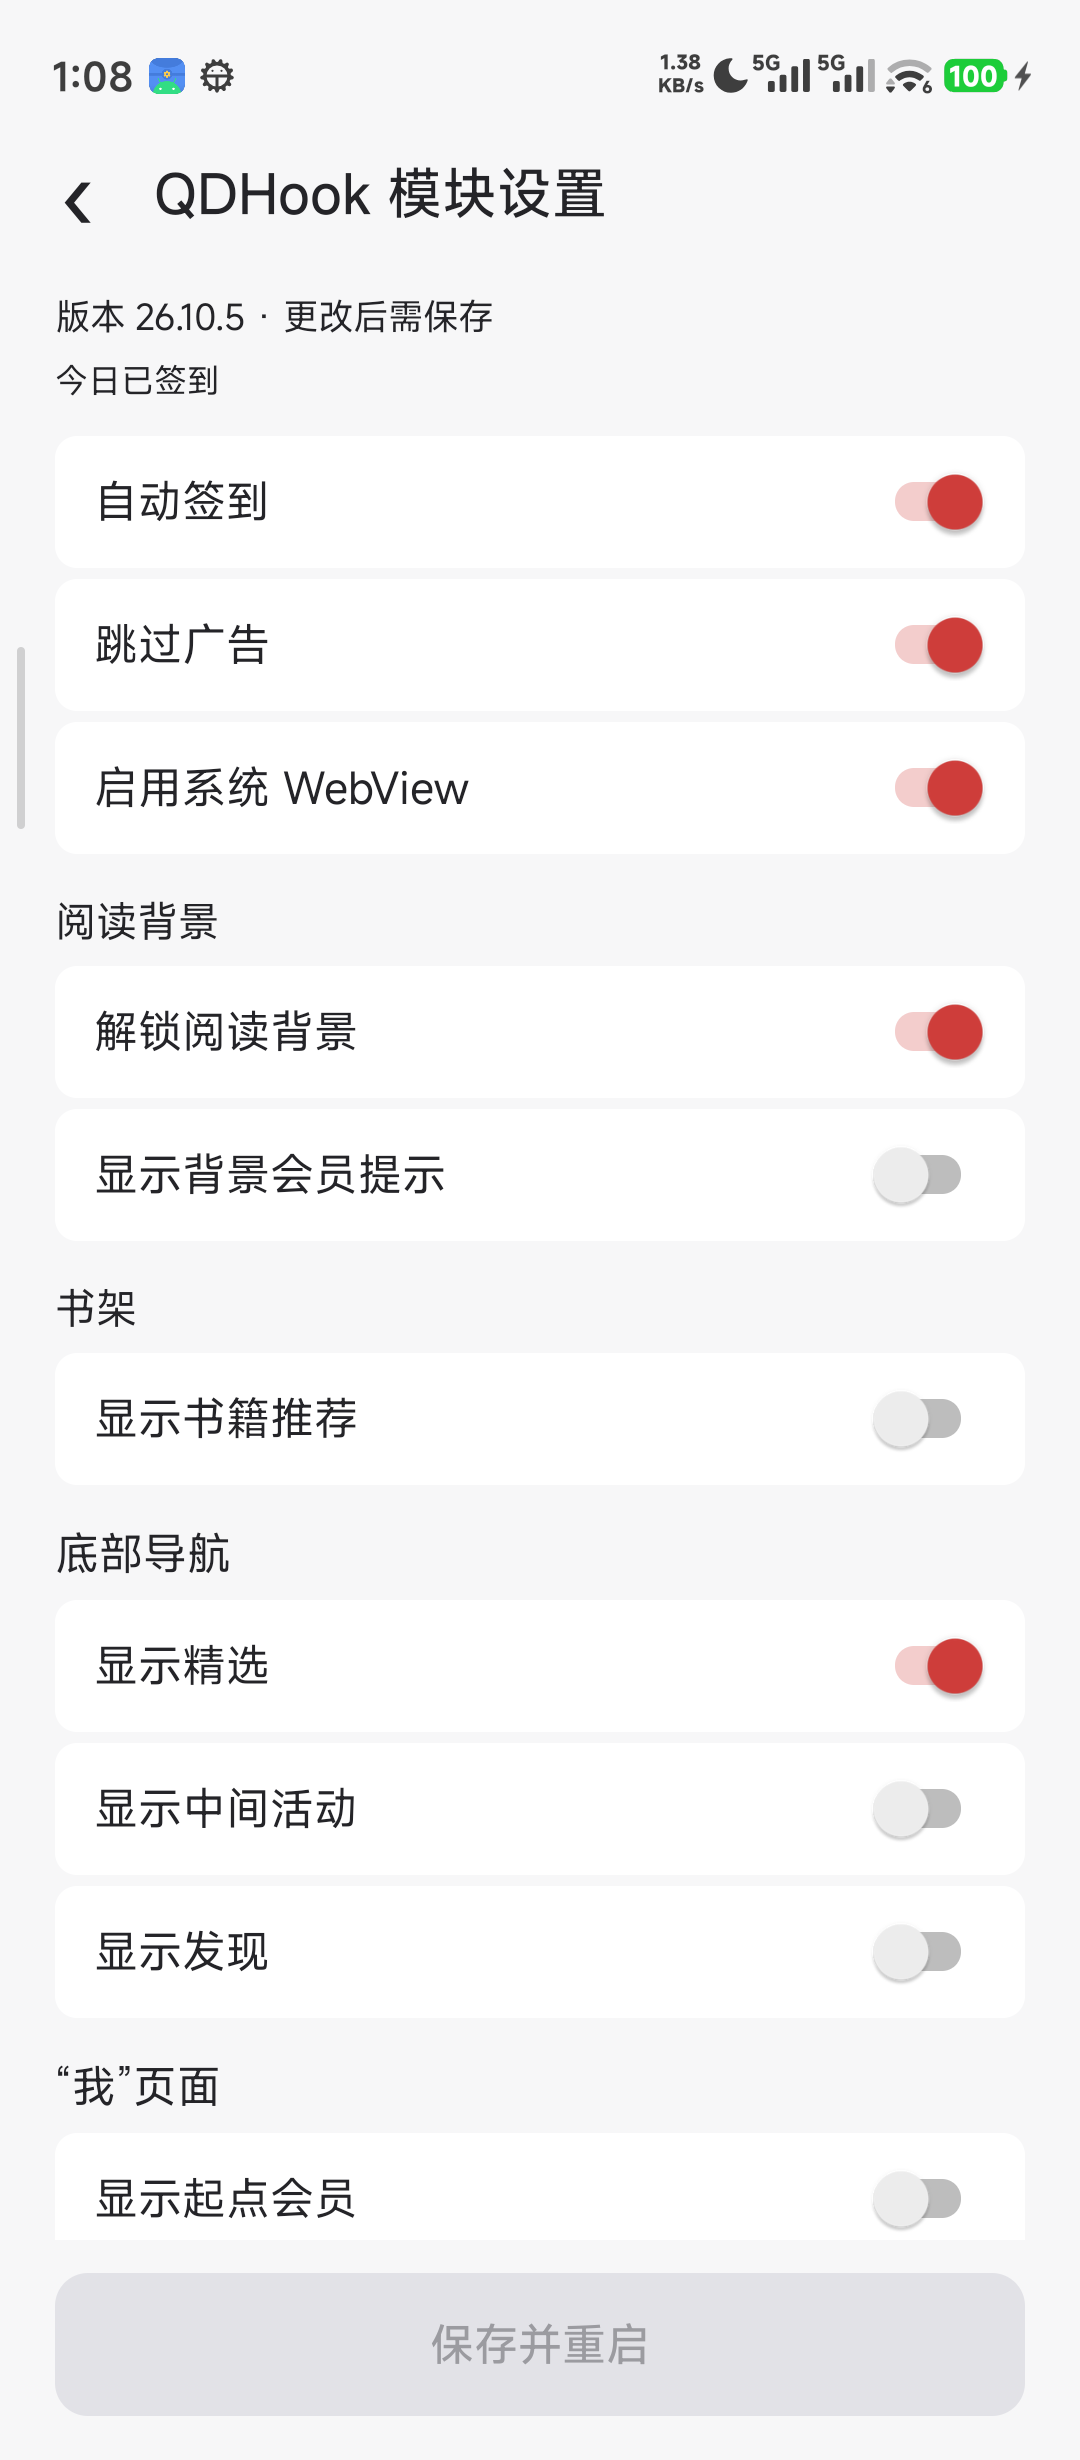
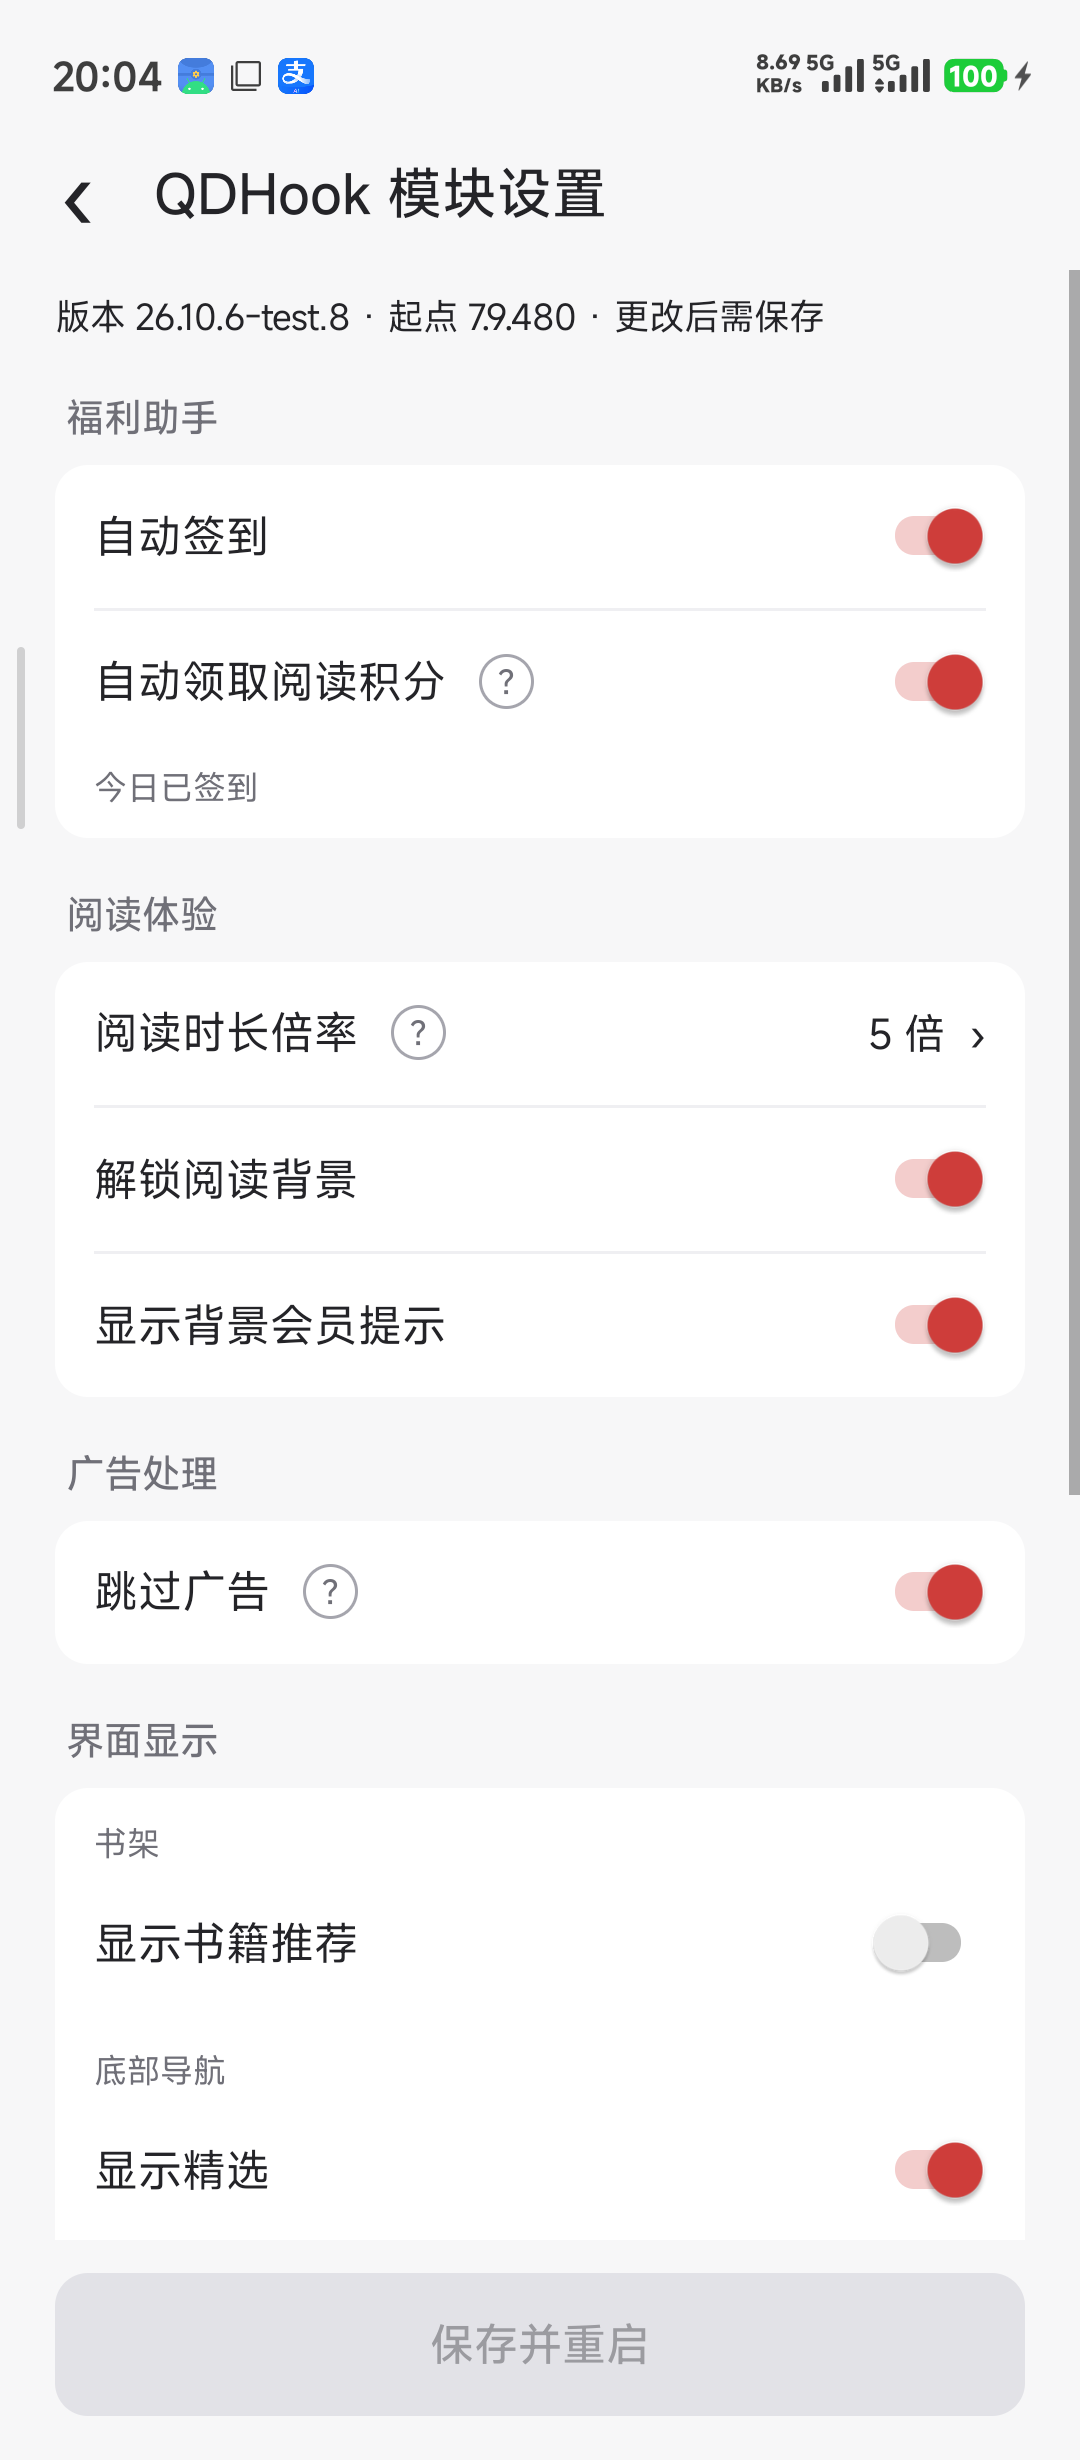
更新 README.md，完善功能描述及兼容性说明；替换功能截图

diff --git a/README.md b/README.md
@@ -4,7 +4,8 @@
 ![LibXposed API](https://img.shields.io/badge/LibXposed_API-102-blue)
 
 
-基于 **LibXposed API 102**，提供自动签到、广告相关、切换系统 WebView 和底部导航自定义功能
+基于 **LibXposed API 102**，提供自动签到、自动领取阅读积分、自定义阅读时长倍率、激励视频跳过、阅读背景、系统 WebView 和界面显示设置。
+
 
 **模块包名：`tech.soyoren.qdhook`**
 
@@ -18,7 +19,8 @@
 ## 兼容说明
 
 - 需要支持 **LibXposed API 102** 的 LSPosed 环境。
-- 适配目标为原包名 **`com.qidian.QDReader`** 的起点读书 **7.9.478**，修改包名的共存版本暂未适配。
+- 支持原包名 **`com.qidian.QDReader`** 的起点读书 **7.9.469 / 7.9.470 / 7.9.478 / 7.9.480**，同一 APK 自动选择对应版本的适配策略；修改包名的共存版本暂未适配。
+- 支持上述版本的已核验原始 APK；其他版本或重新打包的 APK 需要另行适配。
 - 设置入口：**起点读书 → 设置 → QDHook 模块设置**。
 - 配置保存在起点读书的私有目录，模块更换包名后可保留已有设置。
 
@@ -29,21 +31,20 @@
 | Android | 15（SDK 35） |
 | 架构 | arm64-v8a |
 | KernelSU | 3.3.0 |
-| Zygisk Next | 1.5.0 |
-| LSPosed | 2.2.0（7854） |
-| 起点读书 | 7.9.478 |
+| Zygisk Next | 1.5.1 |
+| LSPosed | 2.2.1（7912）|
 
-仅在上述环境测试通过，其他设备、系统及应用版本暂未验证。
+7.9.469 / 7.9.470 / 7.9.478 有此前的适配与功能测试记录；最近一轮重点验证 7.9.480，包括启动、设置分组、问号帮助、配置保留，以及测试包的自动领取阅读积分和 5 倍时长上报。
+
 
 ## 使用方式
 
 1. 下载并安装模块 APK。
 2. 在 LSPosed 中启用 **QDHook**，作用域勾选 **起点读书**。
 3. 强行停止起点读书后重新打开。
-4. 进入 **设置 → QDHook 模块设置**，调整需要的功能或底部导航开关。
+4. 进入 **设置 → QDHook 模块设置**，按分类调整开关或阅读时长倍率；点击圆形问号查看说明。
 5. 点击底部 **保存并重启**，保存配置并重新打开起点。
 
-“保存并重启”默认置灰，任一开关发生改动后亮起；全部改回原值后再次置灰。开关改动后需点击按钮保存，直接返回时可选择继续编辑或放弃更改。
 
 部分 ROM 会提示“起点读书想要打开 QDHook”和“QDHook 想要打开起点读书”，需允许这两个方向的应用拉起。“本次允许”用于当次操作，“始终允许”由系统记住。若拒绝或等待首次确认超过 30 秒，可手动强行停止起点后重新打开，已保存配置仍会生效。
 
@@ -58,6 +59,8 @@
 ## 截图
 
 <p align="center">
-  <img src="./screenshot/1.png" alt="功能截图1" width="35%">
-  <img src="./screenshot/2.png" alt="功能截图2" width="35%">
+  <img src="./screenshot/1.png" alt="设置页上半部分：福利助手、阅读体验和广告处理" width="35%">
+  <img src="./screenshot/2.png" alt="设置页下半部分：界面显示和网页内核" width="35%">
 </p>
+
+开关与倍率为截图时的配置，不代表首次安装默认值。
